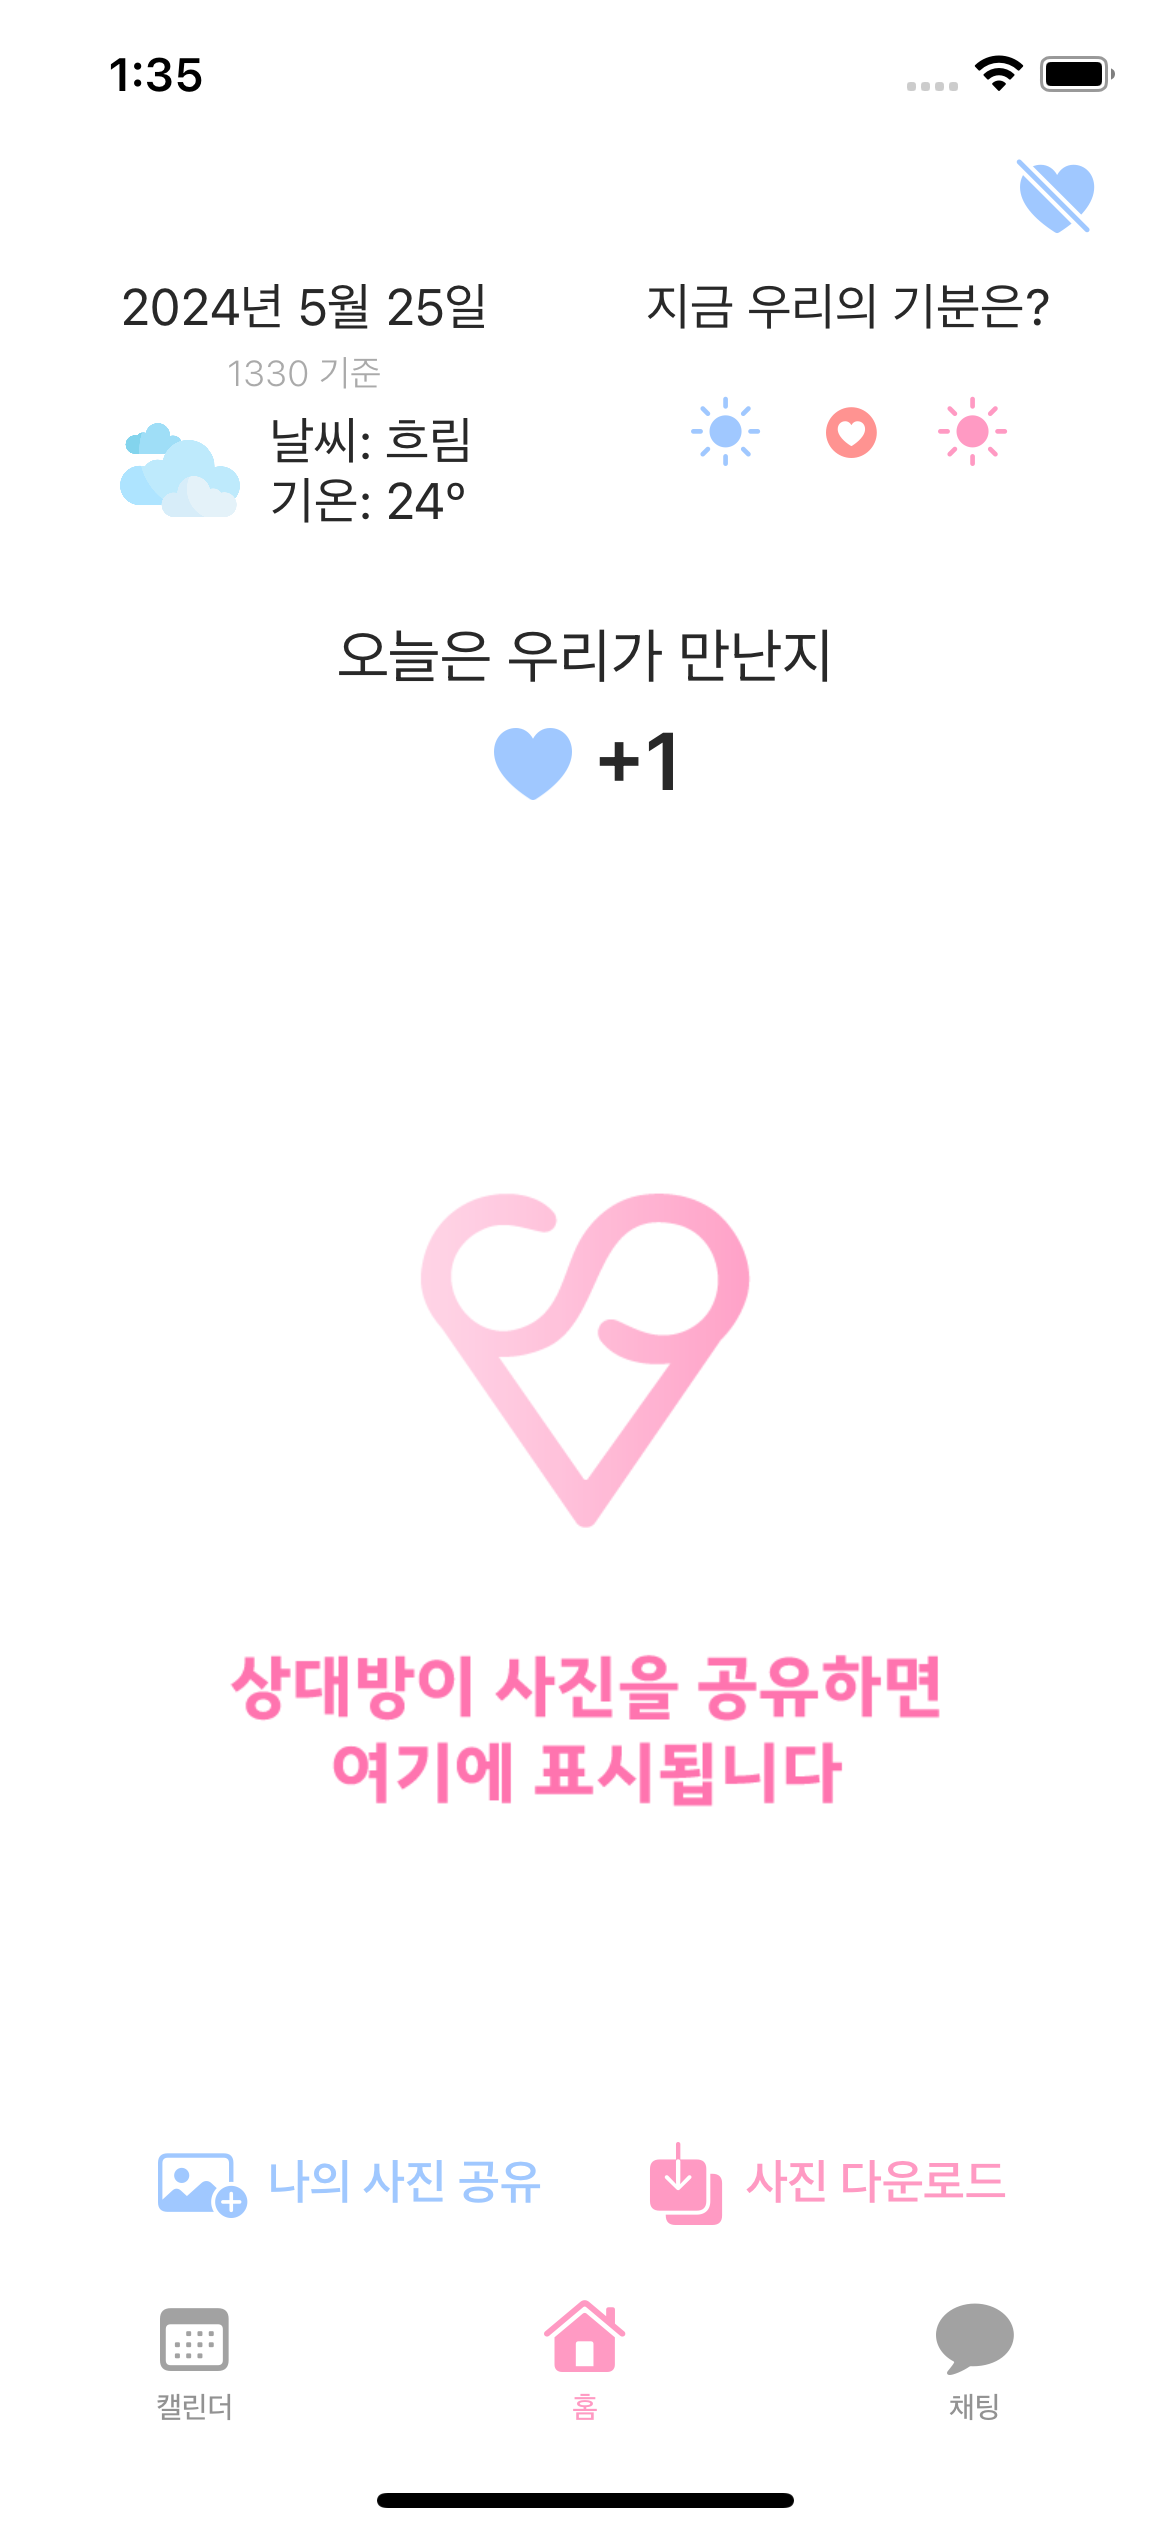
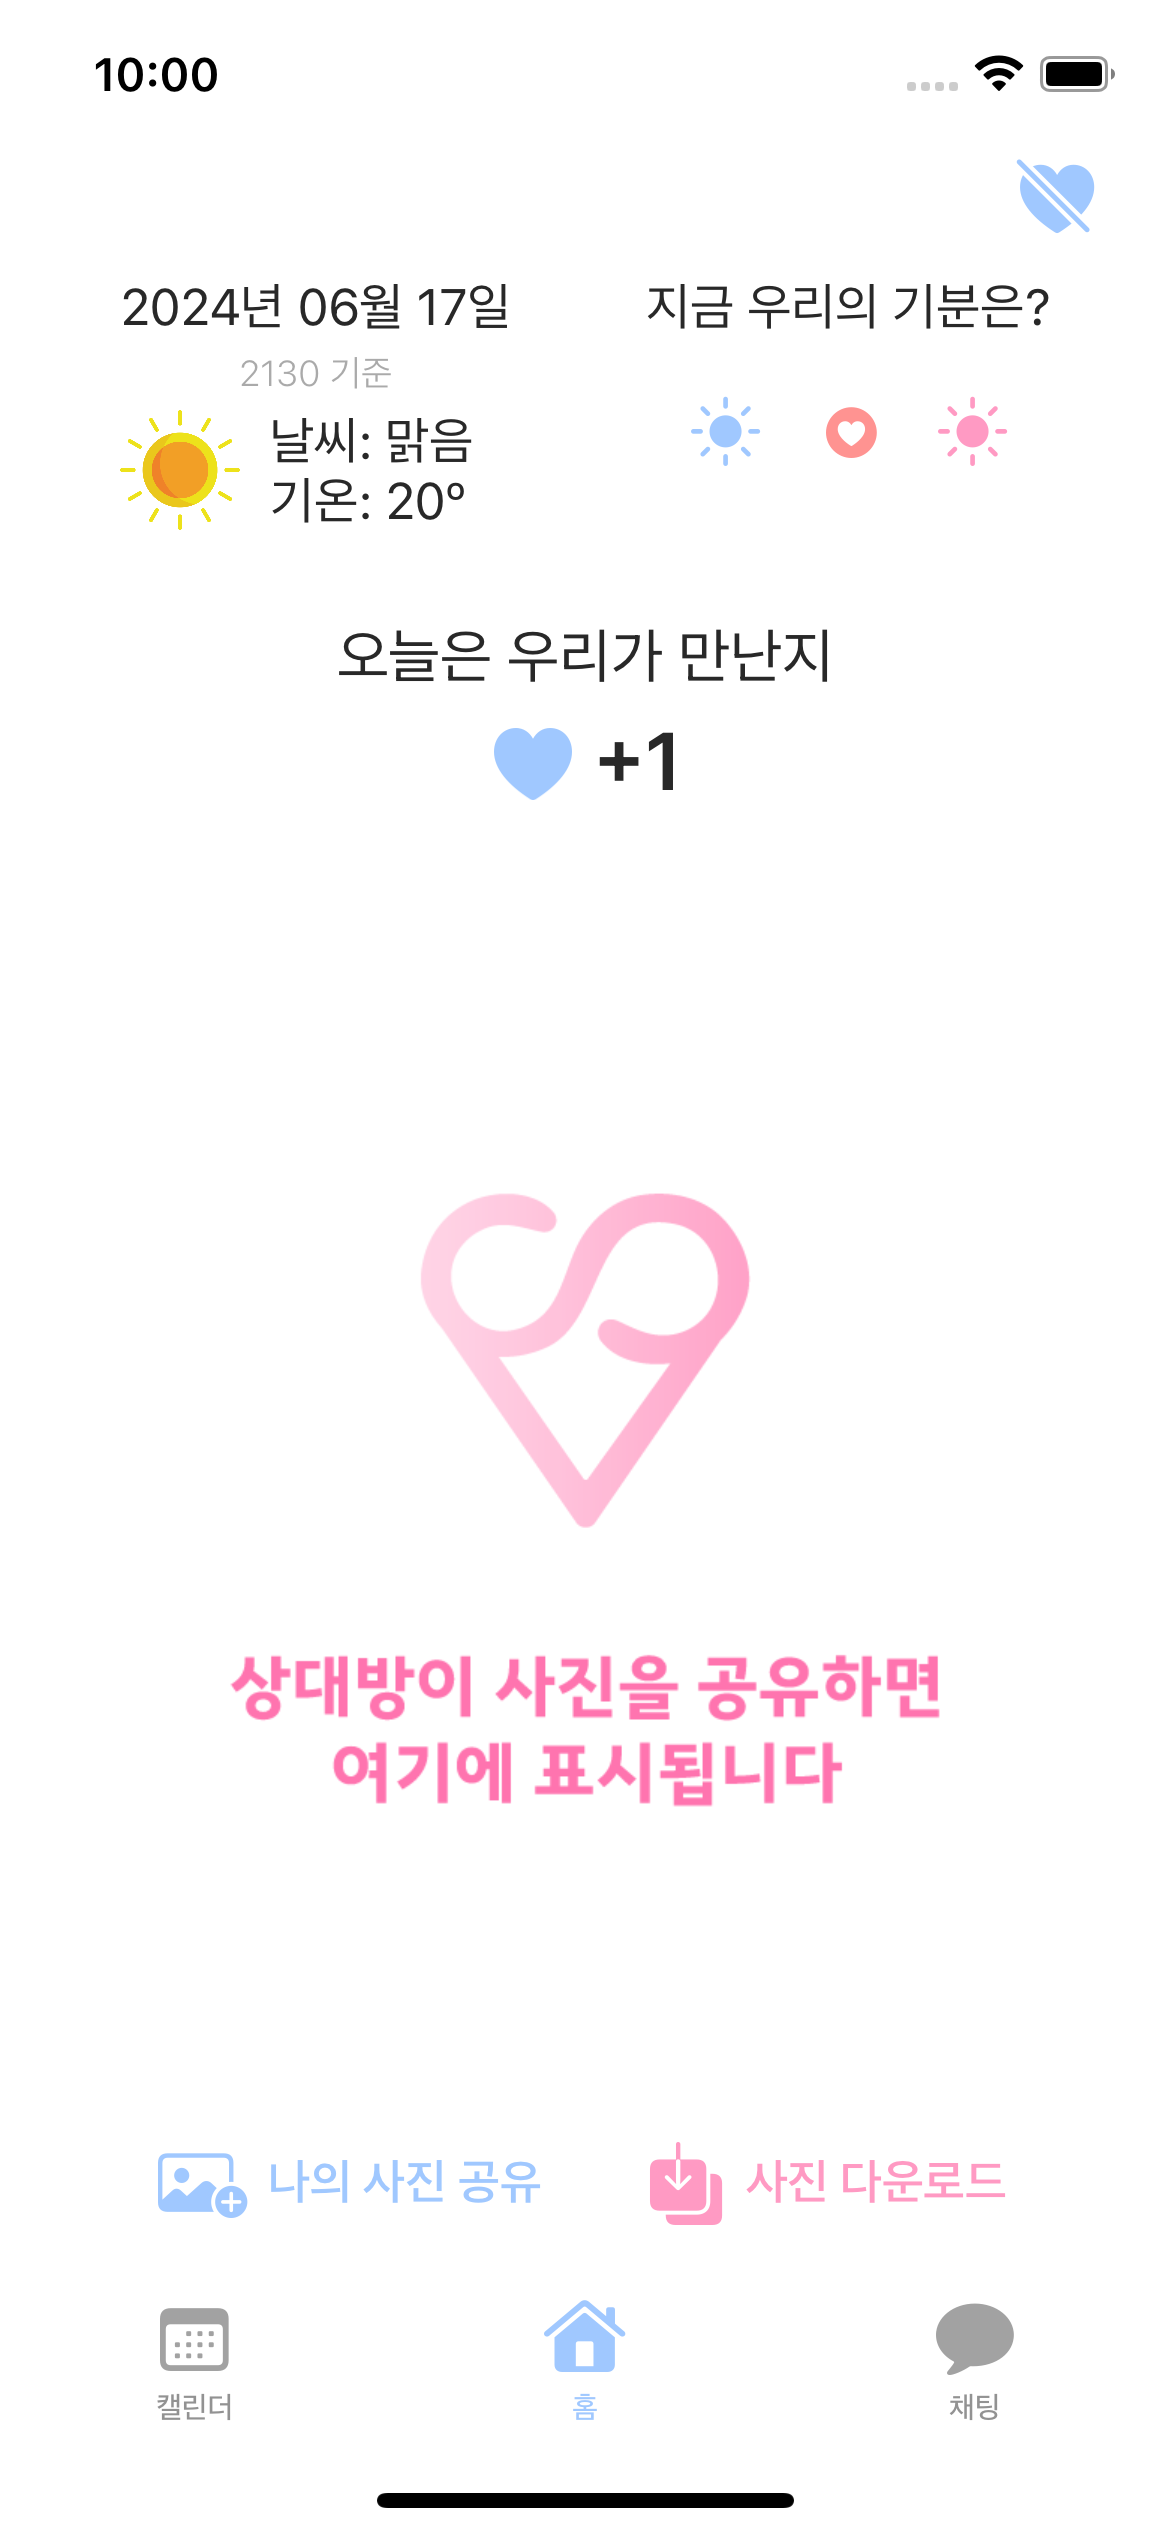
이것저것?

diff --git a/LuvYou/HomeViewController.swift b/LuvYou/HomeViewController.swift
@@ -91,7 +91,6 @@ class HomeViewController: UIViewController, UIImagePickerControllerDelegate, UIN
         let labelString = NSMutableAttributedString()
         labelString.addAttribute(.kern, value: 10, range: NSRange(location: 0, length: labelString.length))
         ddayLabel.attributedText = labelString
-        updateDDay()
         
         titleLabel.font = UIFont(name: "PretendardVariable-Regular", size: 20)
         ddayLabel.font = UIFont(name: "PretendardVariable-SemiBold", size: 27)
@@ -119,6 +118,13 @@ class HomeViewController: UIViewController, UIImagePickerControllerDelegate, UIN
         locationManager.delegate = self
         locationManager.requestWhenInUseAuthorization()
         locationManager.startUpdatingLocation()
+        updateDDay()
+        let currentDate = Date()
+        let dateFormatter = DateFormatter()
+        dateFormatter.dateFormat = "yyyy년 MM월 dd일"
+        let dateString = dateFormatter.string(from: currentDate)
+        dateLabel.text = dateString
+        
     }
     
     override func viewDidLayoutSubviews() {
